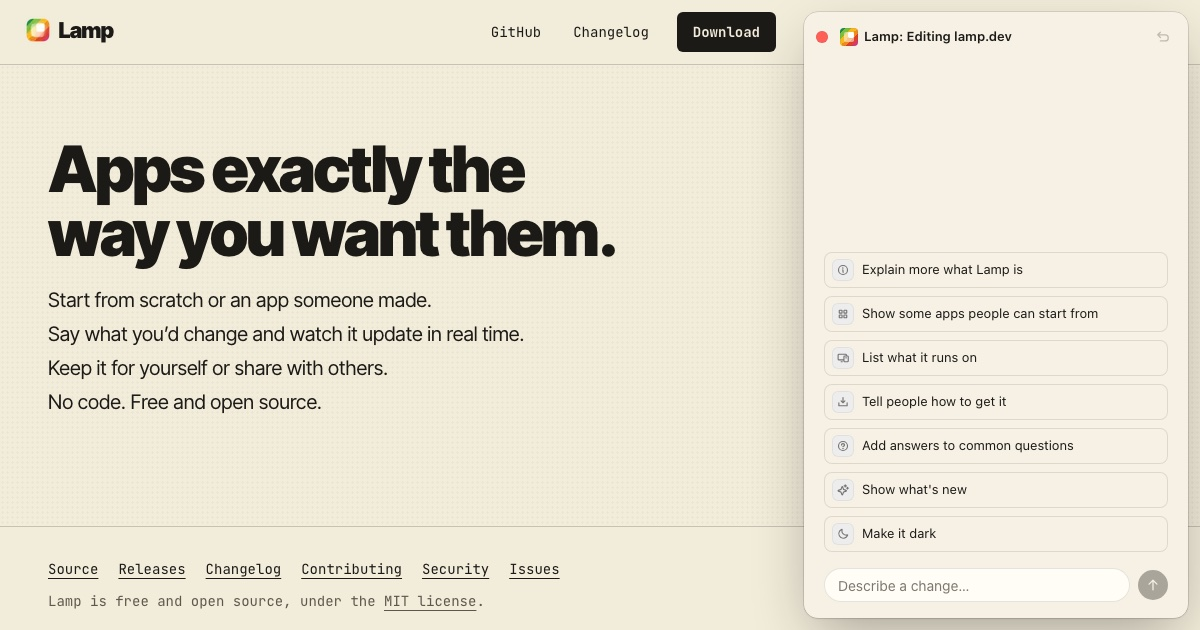
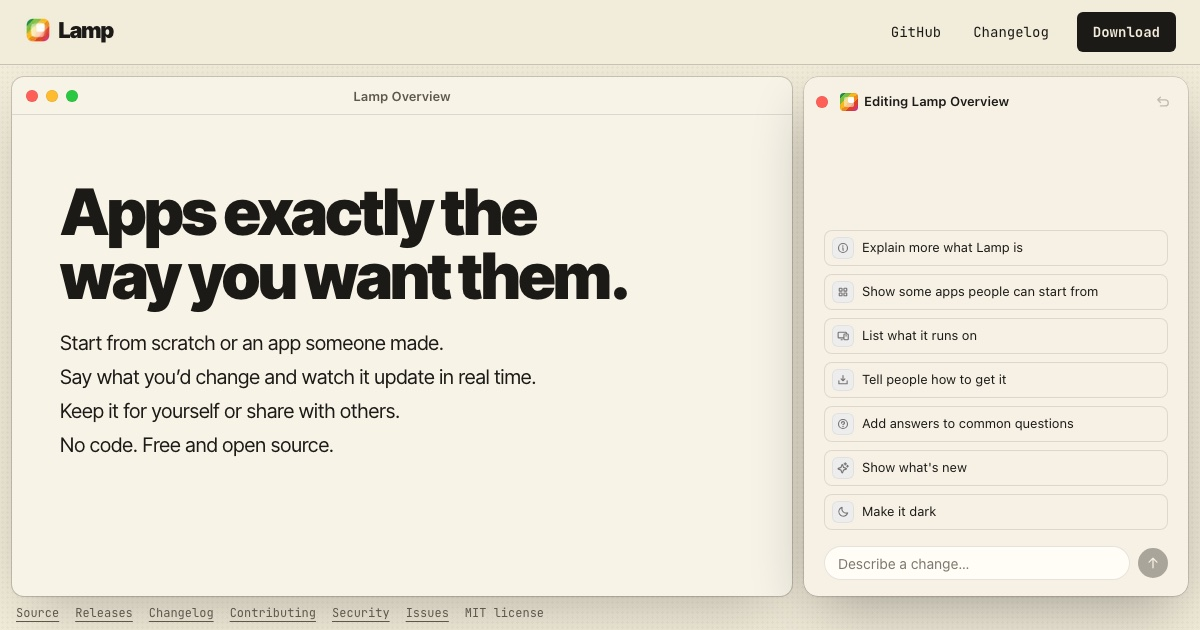
Keep lamp.dev within a centered width, and show the homepage as an app beside Lamp's chat (#1057)

diff --git a/site/src/styles/global.css b/site/src/styles/global.css
@@ -7,7 +7,7 @@
   --font-mono: "JetBrains Mono", ui-monospace, Menlo, monospace;
 
   /* The paper every page is on and the ink printed on it, with a lighter ink for what's said in passing (4.5:1 on the
-     paper). The homepage's "Make it dark" swaps them (html[data-theme=dark], below). */
+     paper). The homepage's "Make it dark" swaps them for its content alone ([data-theme=dark], below). */
   --color-paper: #f2ecda;
   --color-tape: #1b1a17;
   --color-muted-ink: #5d584b;
@@ -21,15 +21,15 @@
   --color-panel: #ebe4d0;
 }
 
-/* The ink swapped for the paper, when the homepage's chat is asked to make it dark. */
-html[data-theme="dark"] {
+/* The ink swapped for the paper, for what's inside an element marked dark: the homepage's content, when its chat is
+   asked to make it dark. Its words take the new ink too. */
+[data-theme="dark"] {
   --color-paper: #1b1a17;
   --color-tape: #f2ecda;
   --color-muted-ink: #b3ac99;
   color-scheme: dark;
+  color: var(--color-tape);
 }
-html[data-theme="dark"] body { background-image: radial-gradient(rgb(255 240 210 / 0.05) 1px, transparent 1.4px); }
-html { transition: background-color 0.4s ease; }
 
 /* The site's one kind of button: ink with paper-colored words, small corners. */
 .ink-button {
@@ -38,6 +38,10 @@ html { transition: background-color 0.4s ease; }
 }
 .ink-button:hover { opacity: 0.88; }
 .ink-button:focus-visible { outline: 2px solid var(--color-tape); outline-offset: 3px; }
+
+/* The widest the site's pages get, menu bar and footer included: on a wider window they keep to the middle, so the
+   words, the menu and the homepage's chat stay together. */
+:root { --frame: 80rem; }
 
 /* How much of the top of the window the menu bar covers, its rule included (MenuBar.astro). */
 :root {

diff --git a/docs/development/website.md b/docs/development/website.md
@@ -17,22 +17,25 @@ runs along a part of the homepage as it's added.
 The homepage is itself a demo of changing something by asking. It opens as only a headline and the lines under it,
 beside Lamp's chat, and each request in the chat adds a part of the page while you watch: what Lamp is, the starters,
 what it runs on, how to get it (the download, the newest version, and building from source), answers to common
-questions and what's new; "Make it dark" swaps the paper and the ink (`html[data-theme=dark]`). Nothing asks a model:
+questions and what's new; "Make it dark" swaps the paper and the ink for the page's content alone (`.home[data-theme=dark]`; the site around it and the chat stay as they are). Nothing asks a model:
 each request is written in advance with the part it adds, a request of one's own is answered with where it can be
 done (Lamp), and Undo takes back the newest change. Without the script, and for search engines, every part is on the
 page in order. The chat is drawn as Lamp draws the chat beside an app (LampSidebarKit), from the same colors
 (`Paper.swift`) and shapes: a title bar with the red light (it puts the chat away; Lamp's mark at the corner brings it
-back), Lamp's mark, "Lamp: Editing lamp.dev" (as Lamp's own chat names the app it's beside) and Undo; what's asked in ink bubbles and what Lamp says in paper ones, both with Messages' tail;
+back), Lamp's mark, "Editing Lamp Overview" and Undo; what's asked in ink bubbles and what Lamp says in paper ones, both with Messages' tail;
 the requests as outlined tiles whose gray icons (Phosphor's bold set) take their own color
-under the pointer; and the round message box with the round ink Send. Where there's room it's a window of its own
-down the right edge, off the window's edges with round corners and a window's shadow; on a phone it's pinned to the foot of the
+under the pointer; and the round message box with the round ink Send. Where there's room the page itself is an app's window (a title bar with the window's lights and "Lamp Overview", the page
+scrolling inside it, and scrolling anywhere outside it scrolls it; the headline stands in its middle until a part is
+added), the chat titled "Editing Lamp Overview" beside it at the same height, with the project's links as one line under both
+(`Footer` compact). The chat is a window of its own
+down the right edge of the page's width (`--frame`, 80rem: on a wider window the menu bar, content, footer and chat
+keep to the middle together), off the window's edges with round corners and a window's shadow; on a phone it's pinned to the foot of the
 window over the page, never more than about two fifths of it, so what it adds stays in sight above it: the requests
 as small pills that wrap, and only the latest exchange of the conversation. The red light puts it away into Lamp's mark at
 the corner; the mark brings it back. The page keeps room under its footer as tall as whatever covers the window's foot (the
 chat, or the mark), so all of it, the footer included, can be scrolled clear of it, and each part that comes in is scrolled to, all the way down: its end just above the chat (or the window's
 foot). Until one's been picked, a soft light
-passes over the requests in turn every few seconds (not where less motion is asked for). It follows the Mac's light or dark appearance, as Lamp does, and is dark
-when the page is. Every starter shown is a real one (`Resources/Starters`, listed in `src/lib/starters.ts` with the
+passes over the requests in turn every few seconds (not where less motion is asked for). It follows the Mac's light or dark appearance, as Lamp does, whatever the page beside it looks like. Every starter shown is a real one (`Resources/Starters`, listed in `src/lib/starters.ts` with the
 pictures and changes it ships with), each with one of its changes under it to ask for; the devices listed are only
 those a kind of app or a shipped device integration really reaches. The newest version and what's new come from
 `RELEASE_NOTES.md` at the top of the repository, read when the site is built (`src/lib/releases.ts`), as does the
